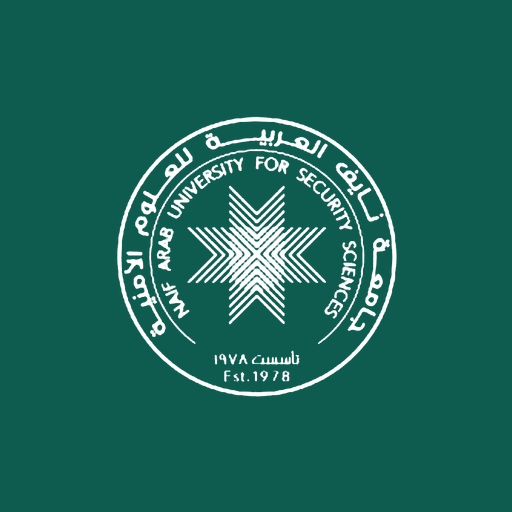
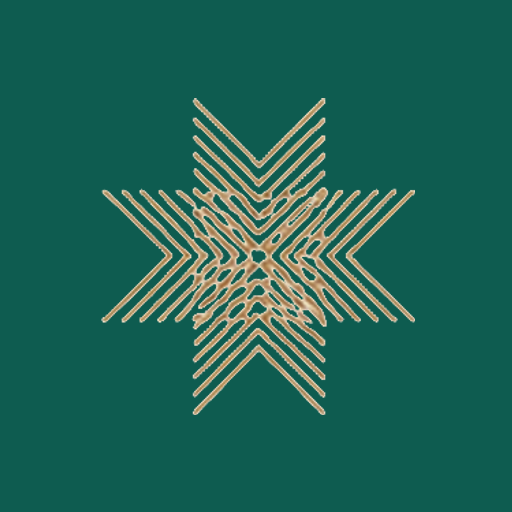
الشعار الصحيح، لصق ذكي للجدول، البريد في حسابي، وترتيب الهيدر
- استخدام شعار جامعة نايف الرسمي (الذهبي) بخلفية شفافة في كل المواضع + السايدبار + صفحة الدخول
- أداة «لصق ذكي» تستخرج الجلسات من نص منسوخ (تتجاهل المراجعة والملفات والروابط)
- صفحة حسابي: إظهار البريد الإلكتروني (اسم الدخول)
- ترتيب هيدر المجلة: الشعارات ثم العنوان ثم الأقسام؛ واستبدال «تقليب» بـ«المجلة الإلكترونية»
- إعادة توليد الأيقونات بالنجمة الذهبية

Changed region(s): [[0.1875, 0.1875, 0.8125, 0.8125], [0.3125, 0.6875, 0.3438, 0.7188]]

diff --git a/src/features/magazine/MagazineView.tsx b/src/features/magazine/MagazineView.tsx
@@ -64,44 +64,47 @@ export function MagazineView({ data, siteUrl }: { data: MagazineData; siteUrl: s
           scrolled ? 'bg-primary/95 shadow-soft backdrop-blur' : 'bg-transparent',
         )}
       >
-        <div className="mx-auto flex max-w-5xl items-center justify-between px-4 py-3">
-          {/* العنوان + الشعارات (شفافة، مع فاصل خفيف) */}
-          <div className="flex items-center gap-3">
-            <span className={cn('max-w-[36vw] truncate font-semibold', scrolled ? 'text-white' : 'text-white drop-shadow')}>
-              {course.title}
-            </span>
-            <div className="hidden items-center gap-2.5 sm:flex">
+        <div className="mx-auto flex max-w-6xl items-center justify-between gap-4 px-4 py-3">
+          {/* يمينًا: الشعارات ثم العنوان ثم روابط الأقسام */}
+          <div className="flex min-w-0 items-center gap-3">
+            {/* الشعارات (جامعة نايف ثم برامج الشراكات) */}
+            <div className="flex shrink-0 items-center gap-2.5">
               {/* eslint-disable-next-line @next/next/no-img-element */}
-              <img src="/logo-nauss-white.png" alt="جامعة نايف" className="h-8 object-contain drop-shadow" />
+              <img src="/logo-nauss-white.png" alt="جامعة نايف العربية للعلوم الأمنية" className="h-8 object-contain drop-shadow sm:h-9" />
               {course.show_partnership_logo && (
                 <>
-                  <span className="h-6 w-px bg-white/30" />
+                  <span className="h-7 w-px bg-white/30" />
                   {/* eslint-disable-next-line @next/next/no-img-element */}
-                  <img src="/logo-moi-white.png" alt="برامج الشراكات الدولية" className="h-8 object-contain drop-shadow" />
+                  <img src="/logo-moi-white.png" alt="برامج الشراكات الدولية" className="h-8 object-contain drop-shadow sm:h-9" />
                 </>
               )}
             </div>
+            <span className="hidden h-8 w-px bg-white/25 lg:block" />
+            <span className={cn('hidden max-w-[22vw] truncate font-semibold text-white drop-shadow lg:block')}>
+              {course.title}
+            </span>
+            <div className="mr-2 hidden items-center gap-1 md:flex">
+              {NAV.map((n) => (
+                <a
+                  key={n.id}
+                  href={`#${n.id}`}
+                  className={cn(
+                    'rounded-xl px-2.5 py-1.5 text-sm text-white/90 transition-colors',
+                    scrolled ? 'hover:bg-white/10' : 'hover:bg-black/20',
+                  )}
+                >
+                  {n.label}
+                </a>
+              ))}
+            </div>
           </div>
-          <div className="hidden items-center gap-1 md:flex">
-            {NAV.map((n) => (
-              <a
-                key={n.id}
-                href={`#${n.id}`}
-                className={cn(
-                  'rounded-xl px-3 py-1.5 text-sm transition-colors',
-                  scrolled ? 'text-white/90 hover:bg-white/10' : 'text-white/90 hover:bg-black/20',
-                )}
-              >
-                {n.label}
-              </a>
-            ))}
-          </div>
-          <div className="flex items-center gap-2">
+          {/* يسارًا: الأزرار */}
+          <div className="flex shrink-0 items-center gap-2">
             <button
               onClick={() => setFlip(true)}
               className="inline-flex items-center gap-1.5 rounded-xl bg-secondary px-3 py-1.5 text-sm font-medium text-white hover:brightness-95"
             >
-              <BookOpen className="size-4" /> <span className="hidden sm:inline">تقليب</span>
+              <BookOpen className="size-4" /> <span className="hidden sm:inline">المجلة الإلكترونية</span>
             </button>
             <a
               href={`/m/${course.magazine_slug}/pdf`}

diff --git a/src/features/sessions/SessionsManager.tsx b/src/features/sessions/SessionsManager.tsx
@@ -8,22 +8,62 @@ import { Button } from '@/components/ui/Button';
 import { Input } from '@/components/ui/Input';
 import { formatArabicDate } from '@/lib/utils';
 import type { Session } from '@/lib/database.types';
+import { Clipboard } from 'lucide-react';
 import {
   addSessionAction,
   updateSessionAction,
   deleteSessionAction,
   generateSessionDescriptionAction,
+  importSessionsAction,
 } from './actions';
 
 export function SessionsManager({ courseId, initial }: { courseId: string; initial: Session[] }) {
   const [pending, start] = useTransition();
+  const [pasteOpen, setPasteOpen] = useState(false);
+  const [pasteText, setPasteText] = useState('');
 
   return (
     <Card className="flex flex-col gap-5">
       <CardTitle>الجدول الزمني والجلسات</CardTitle>
       <p className="text-sm text-muted">
-        أضف عناوين الجلسات ومقدّميها؛ ويمكنك توليد وصف احترافي لكل جلسة تلقائيًا.
+        أضف الجلسات يدويًا، أو الصق الجدول المنسوخ من نظام التدريب ليُستخرج تلقائيًا.
       </p>
+
+      {/* لصق ذكي */}
+      <div className="rounded-2xl border border-secondary/30 bg-background p-4">
+        <button
+          onClick={() => setPasteOpen((v) => !v)}
+          className="flex items-center gap-2 text-sm font-semibold text-primary"
+        >
+          <Clipboard className="size-4 text-secondary" /> لصق ذكي (استخراج الجلسات من نص منسوخ)
+        </button>
+        {pasteOpen && (
+          <div className="mt-3 flex flex-col gap-2">
+            <textarea
+              value={pasteText}
+              onChange={(e) => setPasteText(e.target.value)}
+              placeholder="الصق هنا الجدول الزمني كما نسختَه من نظام التدريب…"
+              className="min-h-32 w-full rounded-2xl border border-muted/30 bg-surface px-4 py-3 text-sm"
+            />
+            <p className="text-xs text-muted">
+              سيتم تجاهل «المراجعة وتطبيقات عملية» وسطور الملفات والروابط تلقائيًا.
+            </p>
+            <Button
+              size="sm"
+              loading={pending}
+              onClick={() =>
+                start(async () => {
+                  const res = await importSessionsAction(courseId, pasteText);
+                  if (res?.error) toast.error(res.error);
+                  else { toast.success(res?.success ?? 'تمت الإضافة'); setPasteText(''); setPasteOpen(false); }
+                })
+              }
+            >
+              <Clipboard className="size-4" /> استخراج الجلسات
+            </Button>
+          </div>
+        )}
+      </div>
 
       {/* نموذج إضافة */}
       <form

diff --git a/src/features/sessions/parse.ts b/src/features/sessions/parse.ts
@@ -1,0 +1,77 @@
+/**
+ * لصق ذكي: يحلّل النص المنسوخ من نظام الجدول الزمني ويستخرج الجلسات
+ * (العنوان، الوقت، التاريخ)، متجاهلًا سطور الملفات/الروابط و«المراجعة وتطبيقات عملية».
+ */
+
+export interface ParsedSession {
+  title: string;
+  time_label: string | null;
+  session_date: string | null;
+}
+
+// سطر وقت مثل: "8:00 ص - 8:30 ص (30 دقيقة)"
+const TIME_RE = /(\d{1,2}):(\d{2})\s*([صم]).*?-\s*(\d{1,2}):(\d{2})\s*([صم])/;
+// رأس يوم مثل: "يوم 1" و "(13-07-2026)"
+const DAY_RE = /^يوم\s*\d+/;
+const DATE_RE = /\((\d{2})-(\d{2})-(\d{4})\)/;
+
+// سطور ضجيج تُتجاهل
+const NOISE = [
+  'أيقونة', 'مشاهدة الطلاب', 'الحضور', 'QR', 'رابط الكتروني', 'رابط إلكتروني',
+];
+
+function to24h(h: number, m: number, mer: string): string {
+  let hour = h;
+  if (mer === 'م' && hour < 12) hour += 12;
+  if (mer === 'ص' && hour === 12) hour = 0;
+  return `${String(hour).padStart(2, '0')}:${String(m).padStart(2, '0')}`;
+}
+
+function isNoise(line: string): boolean {
+  if (!line) return true;
+  return NOISE.some((n) => line.includes(n)) || line.endsWith('ملف');
+}
+
+export function parseSchedule(text: string): ParsedSession[] {
+  const lines = text.split('\n').map((l) => l.trim());
+  const out: ParsedSession[] = [];
+  let currentDate: string | null = null;
+  let prev = '';
+
+  for (const line of lines) {
+    if (!line) continue;
+
+    // تاريخ اليوم
+    const dm = line.match(DATE_RE);
+    if (dm) {
+      currentDate = `${dm[3]}-${dm[2]}-${dm[1]}`; // YYYY-MM-DD
+      prev = '';
+      continue;
+    }
+    if (DAY_RE.test(line)) {
+      // قد يحوي السطر التاريخ بعده؛ نحاول التقاطه
+      const inline = line.match(DATE_RE);
+      if (inline) currentDate = `${inline[3]}-${inline[2]}-${inline[1]}`;
+      prev = '';
+      continue;
+    }
+
+    // سطر وقت → السطر السابق هو عنوان الجلسة
+    const tm = line.match(TIME_RE);
+    if (tm) {
+      const title = prev.trim();
+      const skip = !title || isNoise(title) || /مراجعة\s*وتطبيقات\s*عملية/.test(title);
+      if (!skip) {
+        const label = `${to24h(+tm[1], +tm[2], tm[3])} - ${to24h(+tm[4], +tm[5], tm[6])}`;
+        out.push({ title, time_label: label, session_date: currentDate });
+      }
+      prev = '';
+      continue;
+    }
+
+    // احتفظ بالسطر كمرشّح عنوان إن لم يكن ضجيجًا
+    if (!isNoise(line)) prev = line;
+  }
+
+  return out;
+}

diff --git a/src/app/account/page.tsx b/src/app/account/page.tsx
@@ -1,12 +1,17 @@
 import Link from 'next/link';
-import { ArrowRight } from 'lucide-react';
+import { ArrowRight, Mail } from 'lucide-react';
 import { requireProfile, isEmployeeMode } from '@/lib/session';
+import { createClient } from '@/lib/supabase/server';
 import { ProfileForm, PasswordForm } from '@/features/account/AccountForms';
+import { Card, CardTitle } from '@/components/ui/Card';
 
 export const metadata = { title: 'حسابي | توثيق' };
 
 export default async function AccountPage() {
   const { profile } = await requireProfile();
+  const supabase = createClient();
+  const { data: { user } } = await supabase.auth.getUser();
+  const email = user?.email ?? '';
   // وجهة العودة حسب نوع الحساب/الوضع الحالي
   const backHref = profile.role === 'admin' && !isEmployeeMode() ? '/admin' : '/dashboard';
 
@@ -18,6 +23,18 @@ export default async function AccountPage() {
         </Link>
         <h1 className="heading-accent mb-6 text-2xl font-semibold text-primary">حسابي</h1>
         <div className="flex flex-col gap-6">
+          {/* البريد الإلكتروني (اسم الدخول) */}
+          <Card className="flex flex-col gap-3">
+            <CardTitle>البريد الإلكتروني</CardTitle>
+            <div className="flex items-center gap-3 rounded-2xl bg-background px-4 py-3">
+              <Mail className="size-5 text-secondary" />
+              <span dir="ltr" className="flex-1 text-primary">{email}</span>
+            </div>
+            <p className="text-sm text-muted">
+              هذا هو اسم الدخول الخاص بك. لتغيير البريد تواصل مع مدير النظام.
+            </p>
+          </Card>
+
           <ProfileForm profile={profile} />
           <PasswordForm />
         </div>

diff --git a/src/features/auth/AuthCard.tsx b/src/features/auth/AuthCard.tsx
@@ -1,4 +1,3 @@
-import Image from 'next/image';
 import Link from 'next/link';
 
 /**
@@ -20,7 +19,8 @@ export function AuthCard({
     <div className="flex min-h-screen bg-background">
       {/* الكتلة الخضراء الجانبية (تظهر على الشاشات الكبيرة) */}
       <div className="relative hidden w-2/5 flex-col justify-between bg-primary p-12 text-white lg:flex">
-        <Image src="/logo-nauss.svg" alt="شعار الجامعة" width={160} height={48} className="brightness-0 invert" />
+        {/* eslint-disable-next-line @next/next/no-img-element */}
+        <img src="/logo-nauss-white.png" alt="جامعة نايف العربية للعلوم الأمنية" className="h-12 w-auto object-contain" />
         <div>
           <h2 className="text-3xl font-semibold leading-relaxed">منصة توثيق الدورات التدريبية</h2>
           <div className="mt-3 h-1 w-20 rounded-full bg-secondary" />
@@ -35,7 +35,8 @@ export function AuthCard({
       <div className="flex flex-1 items-center justify-center p-6">
         <div className="w-full max-w-md">
           <div className="mb-8 lg:hidden">
-            <Image src="/logo-nauss.svg" alt="شعار الجامعة" width={140} height={42} />
+            {/* eslint-disable-next-line @next/next/no-img-element */}
+            <img src="/logo-nauss.png" alt="جامعة نايف العربية للعلوم الأمنية" className="h-11 w-auto object-contain" />
           </div>
           <h1 className="heading-accent text-2xl font-semibold text-primary">{title}</h1>
           {subtitle && <p className="mt-3 text-muted">{subtitle}</p>}

diff --git a/src/features/sessions/actions.ts b/src/features/sessions/actions.ts
@@ -4,6 +4,34 @@ import { revalidatePath } from 'next/cache';
 import { createClient } from '@/lib/supabase/server';
 import { requireProfile } from '@/lib/session';
 import { generateSessionText, isAiConfigured } from '@/lib/ai';
+import { parseSchedule } from './parse';
+
+/** لصق ذكي: يحلّل النص المنسوخ ويضيف الجلسات دفعة واحدة */
+export async function importSessionsAction(courseId: string, text: string) {
+  await requireProfile();
+  const parsed = parseSchedule(text);
+  if (parsed.length === 0) return { error: 'لم يتم التعرّف على جلسات في النص' };
+
+  const supabase = createClient();
+  const { count } = await supabase
+    .from('sessions')
+    .select('id', { count: 'exact', head: true })
+    .eq('course_id', courseId);
+  const base = count ?? 0;
+
+  const rows = parsed.map((p, i) => ({
+    course_id: courseId,
+    title: p.title,
+    time_label: p.time_label,
+    session_date: p.session_date,
+    sort_order: base + i,
+  }));
+
+  const { error } = await supabase.from('sessions').insert(rows);
+  if (error) return { error: 'تعذّر إضافة الجلسات' };
+  revalidatePath(`/dashboard/courses/${courseId}`);
+  return { success: `تمت إضافة ${parsed.length} جلسة`, count: parsed.length };
+}
 
 export async function addSessionAction(courseId: string, formData: FormData) {
   await requireProfile();

diff --git a/src/features/dashboard/Sidebar.tsx b/src/features/dashboard/Sidebar.tsx
@@ -2,7 +2,6 @@
 
 import { useState } from 'react';
 import Link from 'next/link';
-import Image from 'next/image';
 import { usePathname } from 'next/navigation';
 import {
   LayoutDashboard,
@@ -48,7 +47,13 @@ export function Sidebar({ items }: { items: NavItem[] }) {
         )}
       >
         <div className="flex items-center justify-between p-4">
-          {open && <Image src="/logo-nauss.svg" alt="توثيق" width={130} height={40} />}
+          {open && (
+            <div className="flex flex-col gap-2">
+              {/* eslint-disable-next-line @next/next/no-img-element */}
+              <img src="/logo-nauss.png" alt="جامعة نايف العربية للعلوم الأمنية" className="h-9 w-auto object-contain" />
+              <span className="text-sm font-semibold text-primary">منصة توثيق</span>
+            </div>
+          )}
           <button
             onClick={() => setOpen((v) => !v)}
             className="rounded-xl p-2 text-primary hover:bg-primary/5"
